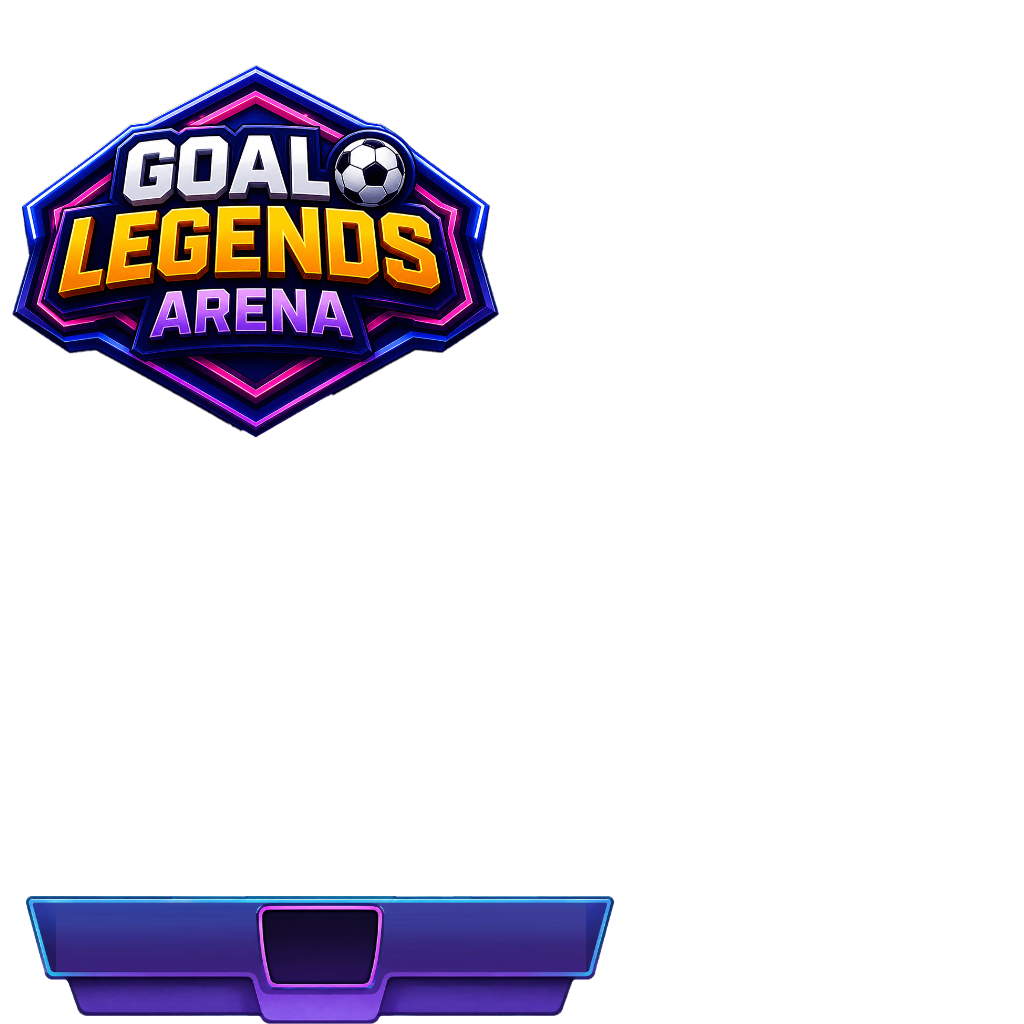
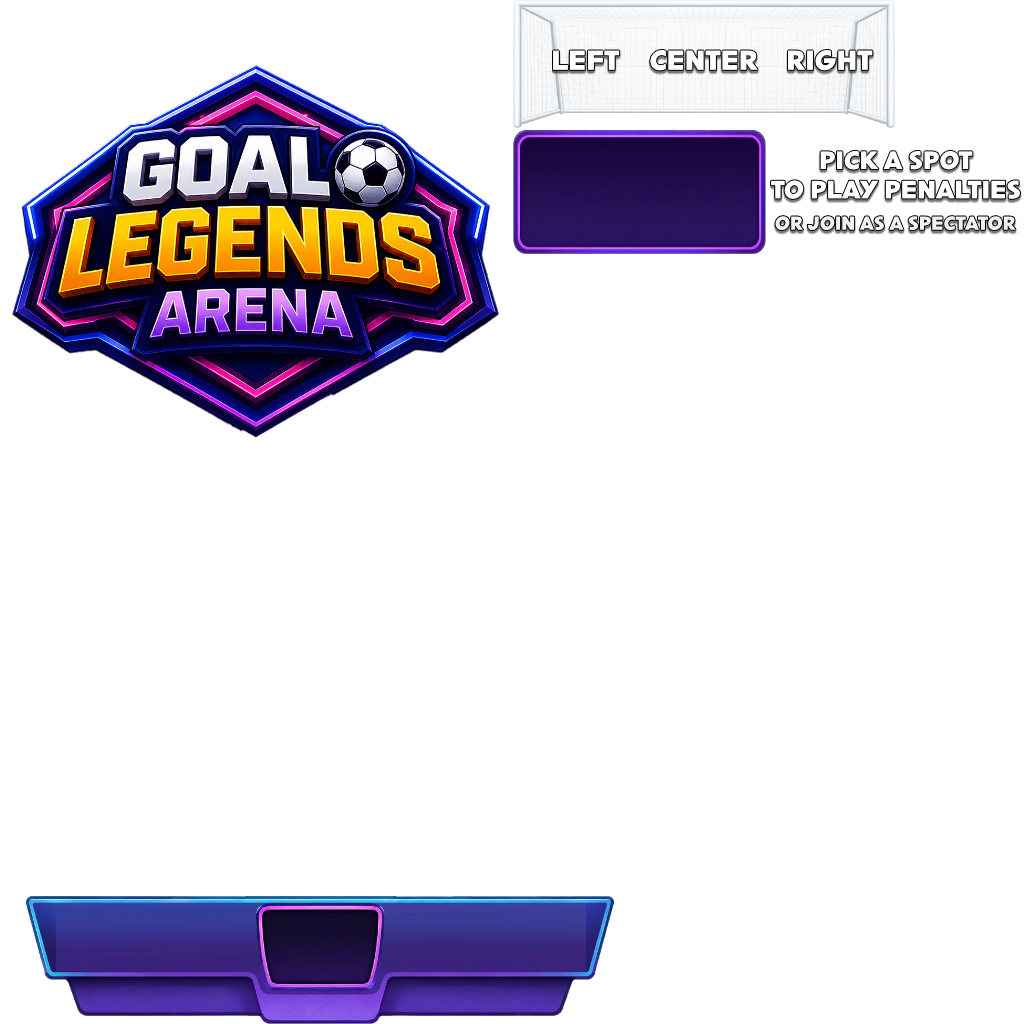
New "pick a spot..." UI

Changed region(s): [[0.5, 0.0, 1.0, 0.25], [0.625, 0.0312, 0.75, 0.0938]]

diff --git a/src/client/uiManager.tsx b/src/client/uiManager.tsx
@@ -26,7 +26,7 @@ import {
   scoreboardBadgeE7Background,
   splashStartButtonBackground
 } from './countryStore'
-import { logoBackground, scoreboardBackground } from './uiAtlasStore'
+import { logoBackground, scoreboardBackground, welcomeChooseSpotBackground, welcomeChooseSpotOverlayBackground } from './uiAtlasStore'
 
 /**
  * React-ECS ya re-renderiza el árbol cada frame (`@dcl/react-ecs` lo registra como un system).
@@ -305,11 +305,21 @@ const lbRows = getLeaderboardRows(s.leaderboardJson, LEADERBOARD_TOP_N)
       {showScoreboard && (
         <UiEntity
           uiTransform={{
-            width: sb.width,
-            height: sb.height,
+            positionType: 'absolute',
+            position: { top: 0, left: 0 },
+            width: '100%',
+            display: 'flex',
+            flexDirection: 'row',
+            justifyContent: 'center',
             zIndex: 55
           }}
         >
+          <UiEntity
+            uiTransform={{
+              width: sb.width,
+              height: sb.height
+            }}
+          >
           <UiEntity
             uiTransform={{
               width: '100%',
@@ -490,6 +500,7 @@ const lbRows = getLeaderboardRows(s.leaderboardJson, LEADERBOARD_TOP_N)
                 <UiEntity uiTransform={{ width: sbFlagW, height: sbNameH }} />
               </UiEntity>
             </UiEntity>
+          </UiEntity>
           </UiEntity>
           </UiEntity>
         </UiEntity>
@@ -764,26 +775,49 @@ const lbRows = getLeaderboardRows(s.leaderboardJson, LEADERBOARD_TOP_N)
       {showWelcome && (
         <UiEntity
           uiTransform={{
+            positionType: 'absolute',
+            position: { top: '10vh', left: 0 },
+            width: '100%',
             display: 'flex',
-            flexDirection: 'column',
-            alignItems: 'center',
-            margin: { top: '10vh' },
-            padding: { top: 26, bottom: 26, left: 34, right: 34 },
-            // maxWidth: 7201
+            flexDirection: 'row',
+            justifyContent: 'center',
+            zIndex: 48,
+            pointerFilter: 'none'
           }}
-          uiBackground={{ color: Color4.create(0.08, 0.38, 0.14, 0.70) }}
         >
           <UiEntity
-            uiTransform={{ width: isMobile() ? 800 : 480, height: isMobile() ? 200 : 120 }}
-            uiBackground={{
-              textureMode: 'stretch',
-              texture: { src: 'assets/images/UI_buttons.png' },
-              // 4x4 sheet; using A1-B1-C1-D1 (row 1 full width)
-              // u: 0.00 -> 1.00, v: 0.75 -> 1.00
-              uvs: [0, 0.75, 0, 1, 1, 1, 1, 0.75],
-              color: Color4.White()
+            uiTransform={{
+              width: isMobile() ? 800 : 480,
+              height: isMobile() ? 400 : 240,
+              positionType: 'relative'
             }}
-          />
+          >
+            <UiEntity
+              uiTransform={{
+                positionType: 'absolute',
+                position: { top: 0, left: 0 },
+                width: '100%',
+                height: '100%'
+              }}
+              uiBackground={welcomeChooseSpotBackground()}
+            />
+            <UiEntity
+              uiTransform={{
+                positionType: 'absolute',
+                position: { top: '10%', left: '10%' },
+                width: '80%',
+                height: '80%',
+                display: 'flex',
+                alignItems: 'center',
+                justifyContent: 'center'
+              }}
+            >
+              <UiEntity
+                uiTransform={{ width: '100%', height: '100%' }}
+                uiBackground={welcomeChooseSpotOverlayBackground()}
+              />
+            </UiEntity>
+          </UiEntity>
         </UiEntity>
       )}
 

diff --git a/src/client/uiAtlasStore.ts b/src/client/uiAtlasStore.ts
@@ -54,6 +54,21 @@ export function scoreboardBackground() {
   return uiAtlasRangeBackground(SCOREBOARD_BG_FROM, SCOREBOARD_BG_TO)
 }
 
+/** “Choose a spot” lobby banner (UI_atlas E2–F2). */
+export const WELCOME_SPOT_FROM = 'E2'
+export const WELCOME_SPOT_TO = 'F2'
+export const WELCOME_SPOT_OVERLAY_FROM = 'G2'
+export const WELCOME_SPOT_OVERLAY_TO = 'H2'
+
+export function welcomeChooseSpotBackground() {
+  return uiAtlasRangeBackground(WELCOME_SPOT_FROM, WELCOME_SPOT_TO)
+}
+
+/** Overlay centered over welcome banner (UI_atlas G2–H2). */
+export function welcomeChooseSpotOverlayBackground() {
+  return uiAtlasRangeBackground(WELCOME_SPOT_OVERLAY_FROM, WELCOME_SPOT_OVERLAY_TO)
+}
+
 /** Width/height of the scoreboard bg sprite (A8–F8 = 6×1 cells). */
 export function scoreboardAtlasAspect(): number {
   const a = parseAtlasCell(SCOREBOARD_BG_FROM)
